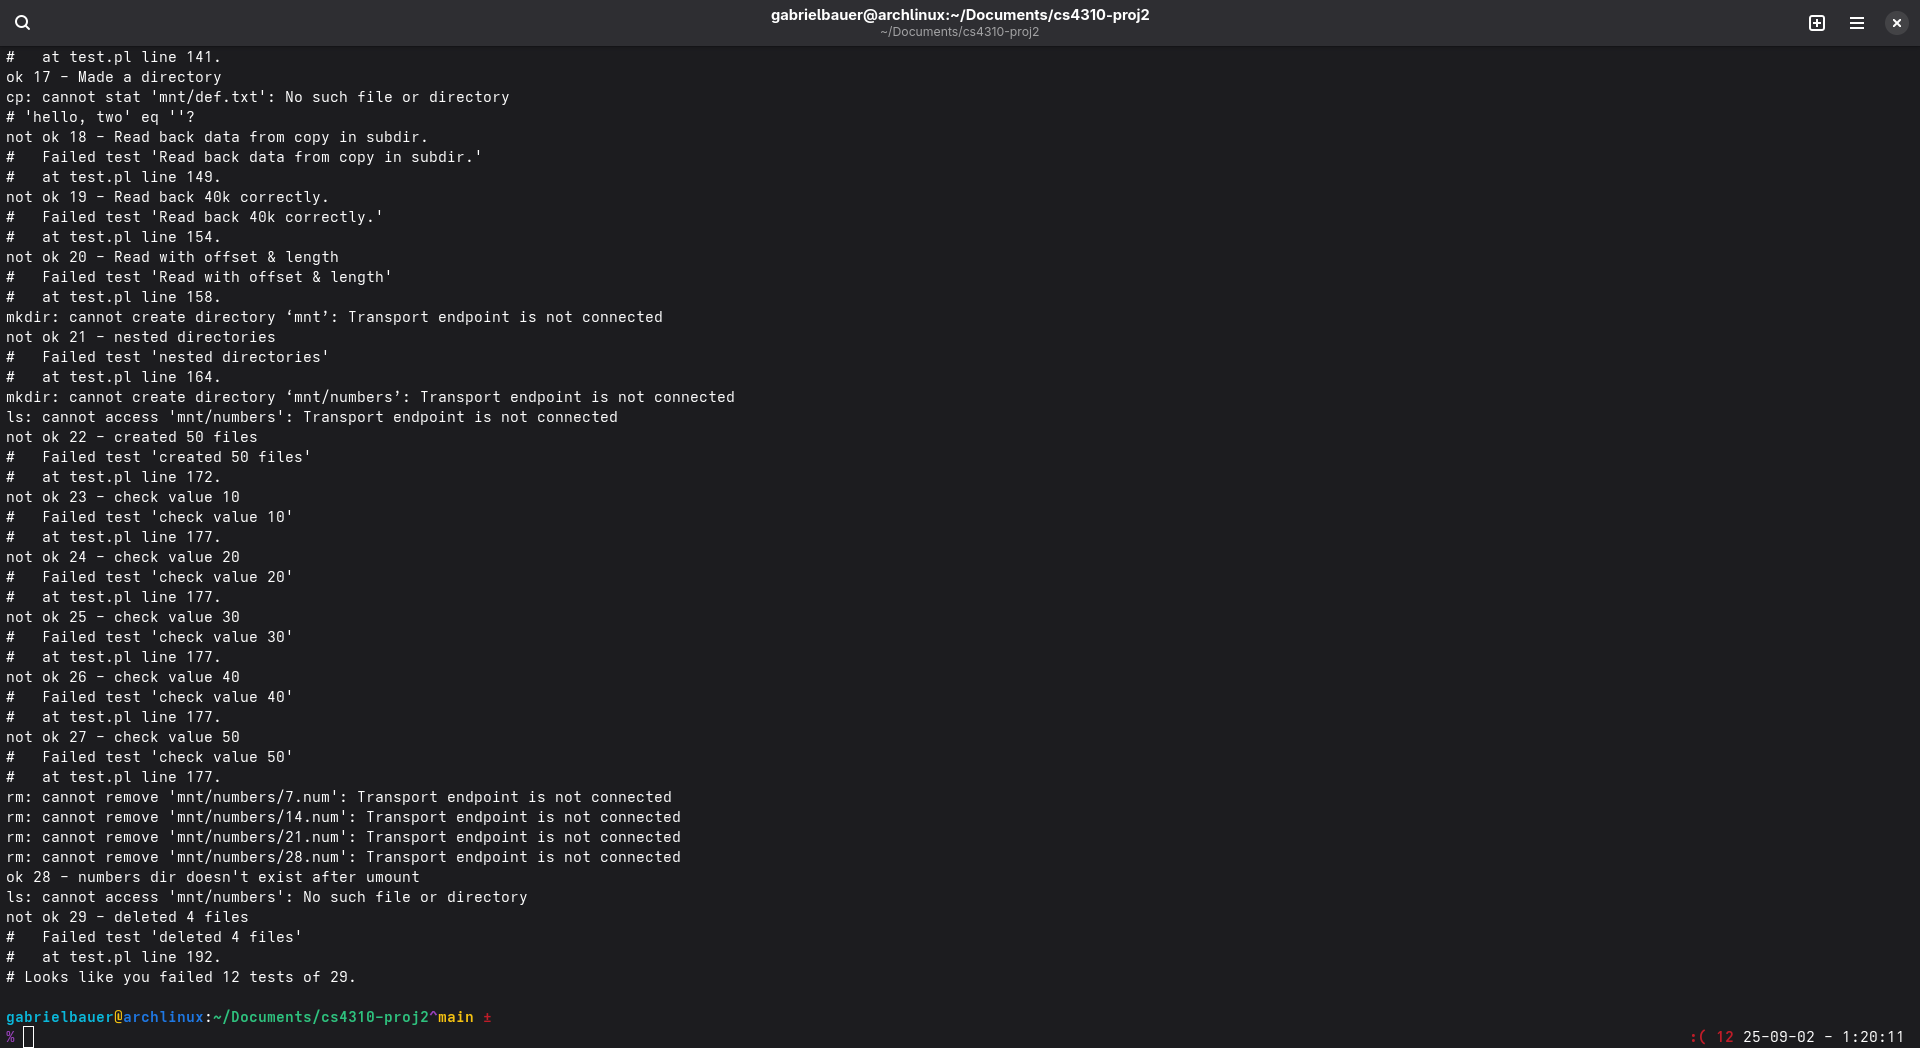
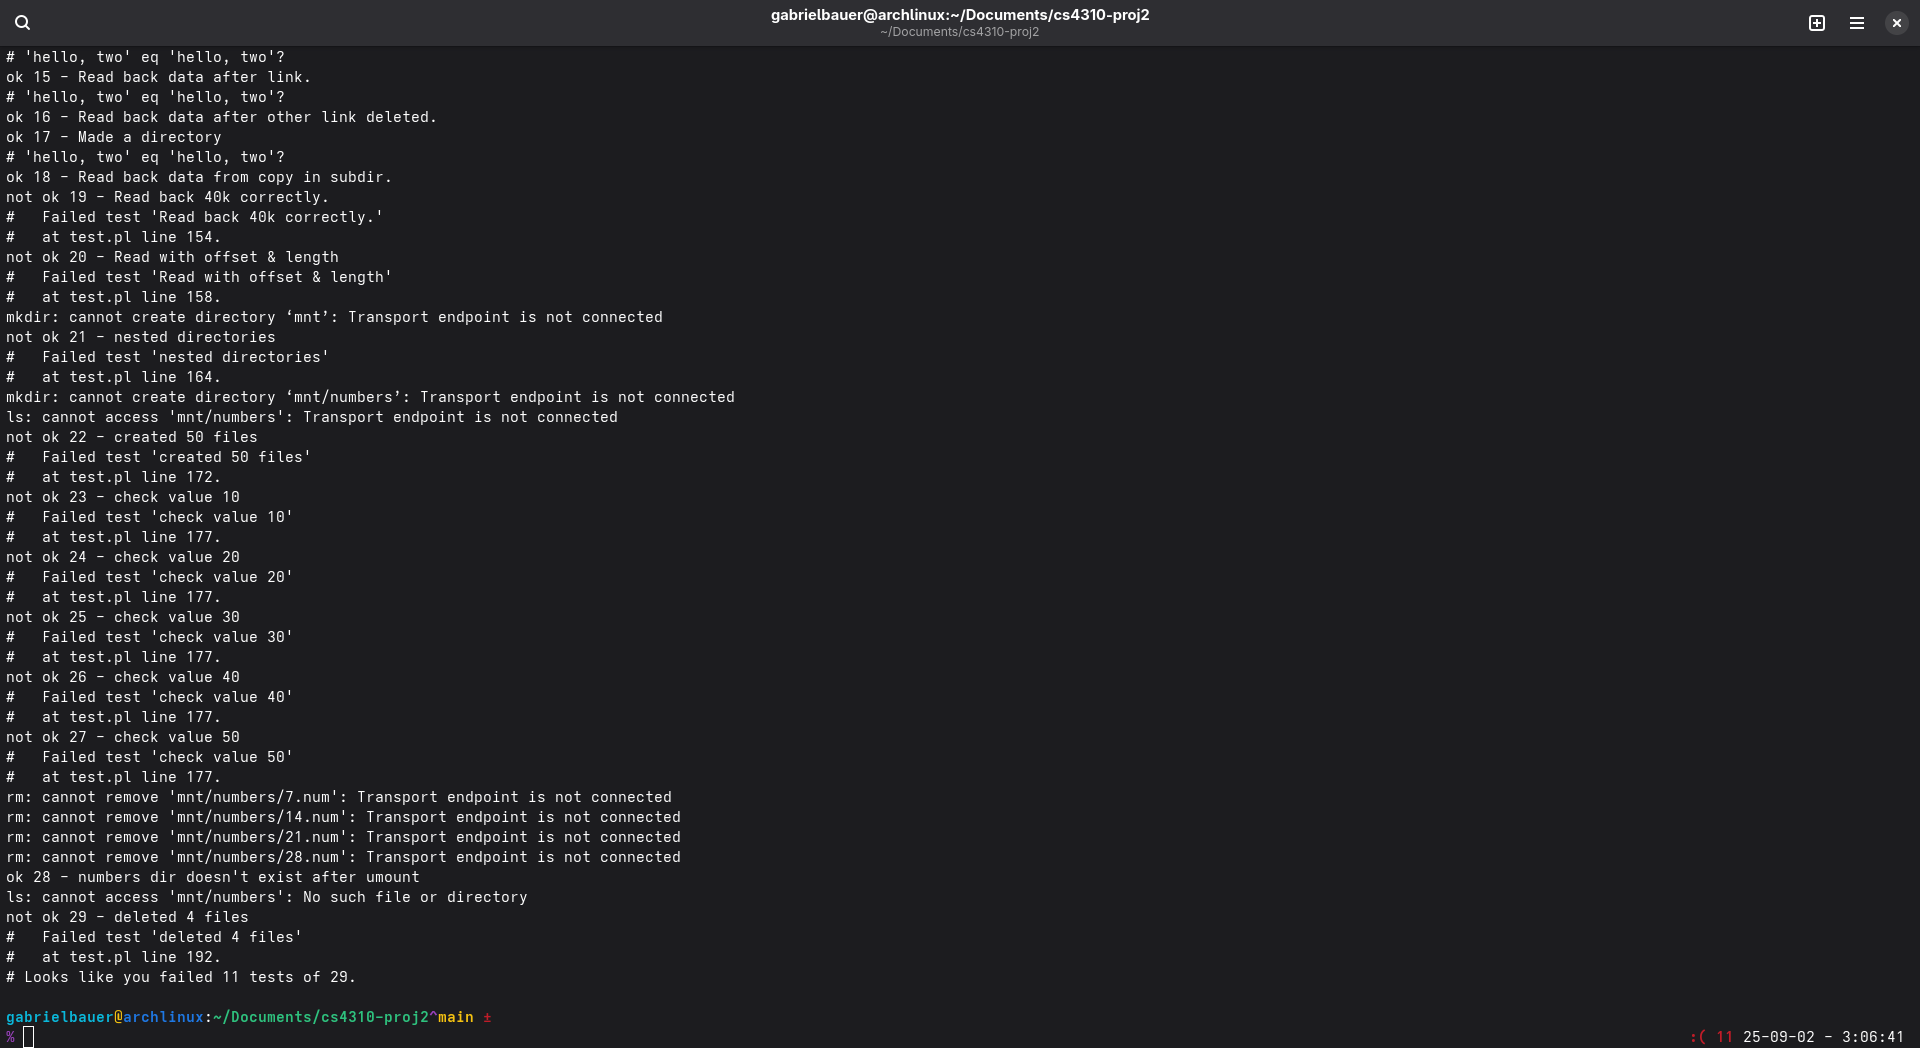
screen3.png

Changed region(s): [[0.0, 0.0305, 0.2188, 0.1832]]

diff --git a/nufs.c b/nufs.c
@@ -175,36 +175,74 @@ nufs_mkdir(const char *path, mode_t mode)
 
 int
 nufs_unlink(const char *path)
+/* This function was written by DeepSeek. */
 {
-	int rv = -ENOENT;
-	int par = tree_lookup(split(path, count_l(path)-1));
-	inode *ptr = get_inode(par);		// Parent
-	int l = tree_lookup(path);
-	inode *dd = get_inode(l);
+	// Split path into directory and filename
+	char* last_slash = strrchr(path, '/');
+	if (last_slash == NULL) {
+		return -EINVAL;
+	}
 	
-	dd->refs-=1;
+	char dir_path[256];
+	char filename[DIR_NAME];
 	
-	void *ibm = get_inode_bitmap();
-	if (dd->refs==0) bitmap_put(ibm, dd->inum, 0);
+	int dir_len = last_slash - path;
+	if (dir_len == 0) {
+		strcpy(dir_path, "/");
+		strncpy(filename, path + 1, DIR_NAME - 1);
+	} else {
+		strncpy(dir_path, path, dir_len);
+		dir_path[dir_len] = '\0';
+		strncpy(filename, last_slash + 1, DIR_NAME - 1);
+	}
+	filename[DIR_NAME - 1] = '\0';
 	
-	dirent *file = (dirent*)pages_get_page(ptr->ptrs[0]+5);
+	// Look up parent directory
+	int dir_inum = tree_lookup(dir_path);
+	if (dir_inum < 0) {
+		return -ENOENT;
+	}
 	
-	for (int count=0;;count++) {
-		if (!strncmp(file->name, path, DIR_NAME))
-		{
-			dirent temp;
-			temp.active=false;
-			memcpy((char*)file, (char*)&temp, sizeof(dirent));
-			rv = 0;
-			break;
+	inode* dir_node = get_inode(dir_inum);
+	if (dir_node == NULL || !S_ISDIR(dir_node->mode)) {
+		return -ENOTDIR;
+	}
+	
+	// Look up the file
+	int file_inum = directory_lookup(dir_node, filename);
+	if (file_inum < 0) {
+		return -ENOENT;
+	}
+	
+	inode* file_node = get_inode(file_inum);
+	if (file_node == NULL) {
+		return -ENOENT;
+	}
+	
+	// Remove directory entry
+	int rv = directory_delete(dir_node, filename);
+	if (rv < 0) {
+		return rv;
+	}
+	
+	// Decrement reference count and free if needed
+	file_node->refs--;
+	if (file_node->refs <= 0) {
+		// Free all data pages
+		for (int i = 0; i < 2; i++) {
+			if (file_node->ptrs[i] != 0) {
+				free_page(file_node->ptrs[i]);
+			}
 		}
-		if (file->next==false) break;
-		else if ( count == 4096/sizeof(dirent) ) file = (dirent*)pages_get_page(ptr->ptrs[1]+5);	// Data pages start at 5
-		else if ( count == 8192/sizeof(dirent) ) {
-			count = 0;
-			ptr = get_inode(ptr->iptr);
+		
+		// Free indirect page
+		if (file_node->iptr != 0) {
+			free_page(file_node->iptr);
 		}
-		else file++;
+		
+		// Free inode
+		void* ibm = get_inode_bitmap();
+		bitmap_put(ibm, file_inum, 0);
 	}
 	
 	printf("unlink(%s) -> %d\n", path, rv);
